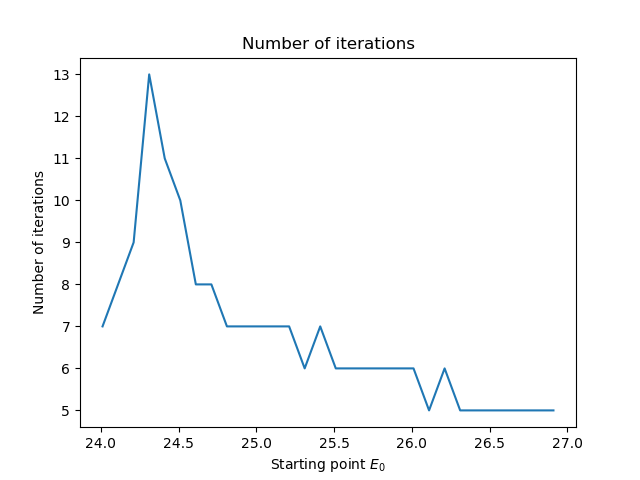
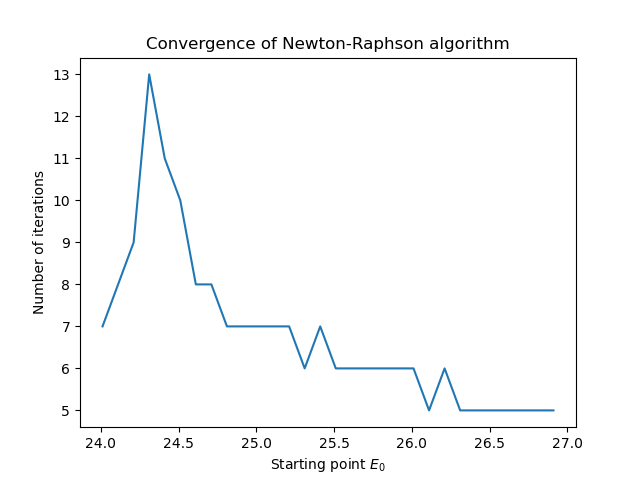
HW7 problem 3

Changed region(s): [[0.2188, 0.0625, 0.8125, 0.125]]

diff --git a/07/07_03.py b/07/07_03.py
@@ -63,7 +63,7 @@ for E_i in np.arange(24.01, 27.0, 0.1):
     I.append(Ic)
 
 plot(E0, I)
-title('Number of iterations')
+title('Convergence of Newton-Raphson algorithm')
 xlabel(r'Starting point $E_0$')
 ylabel('Number of iterations')
 savefig('07_03.png')
